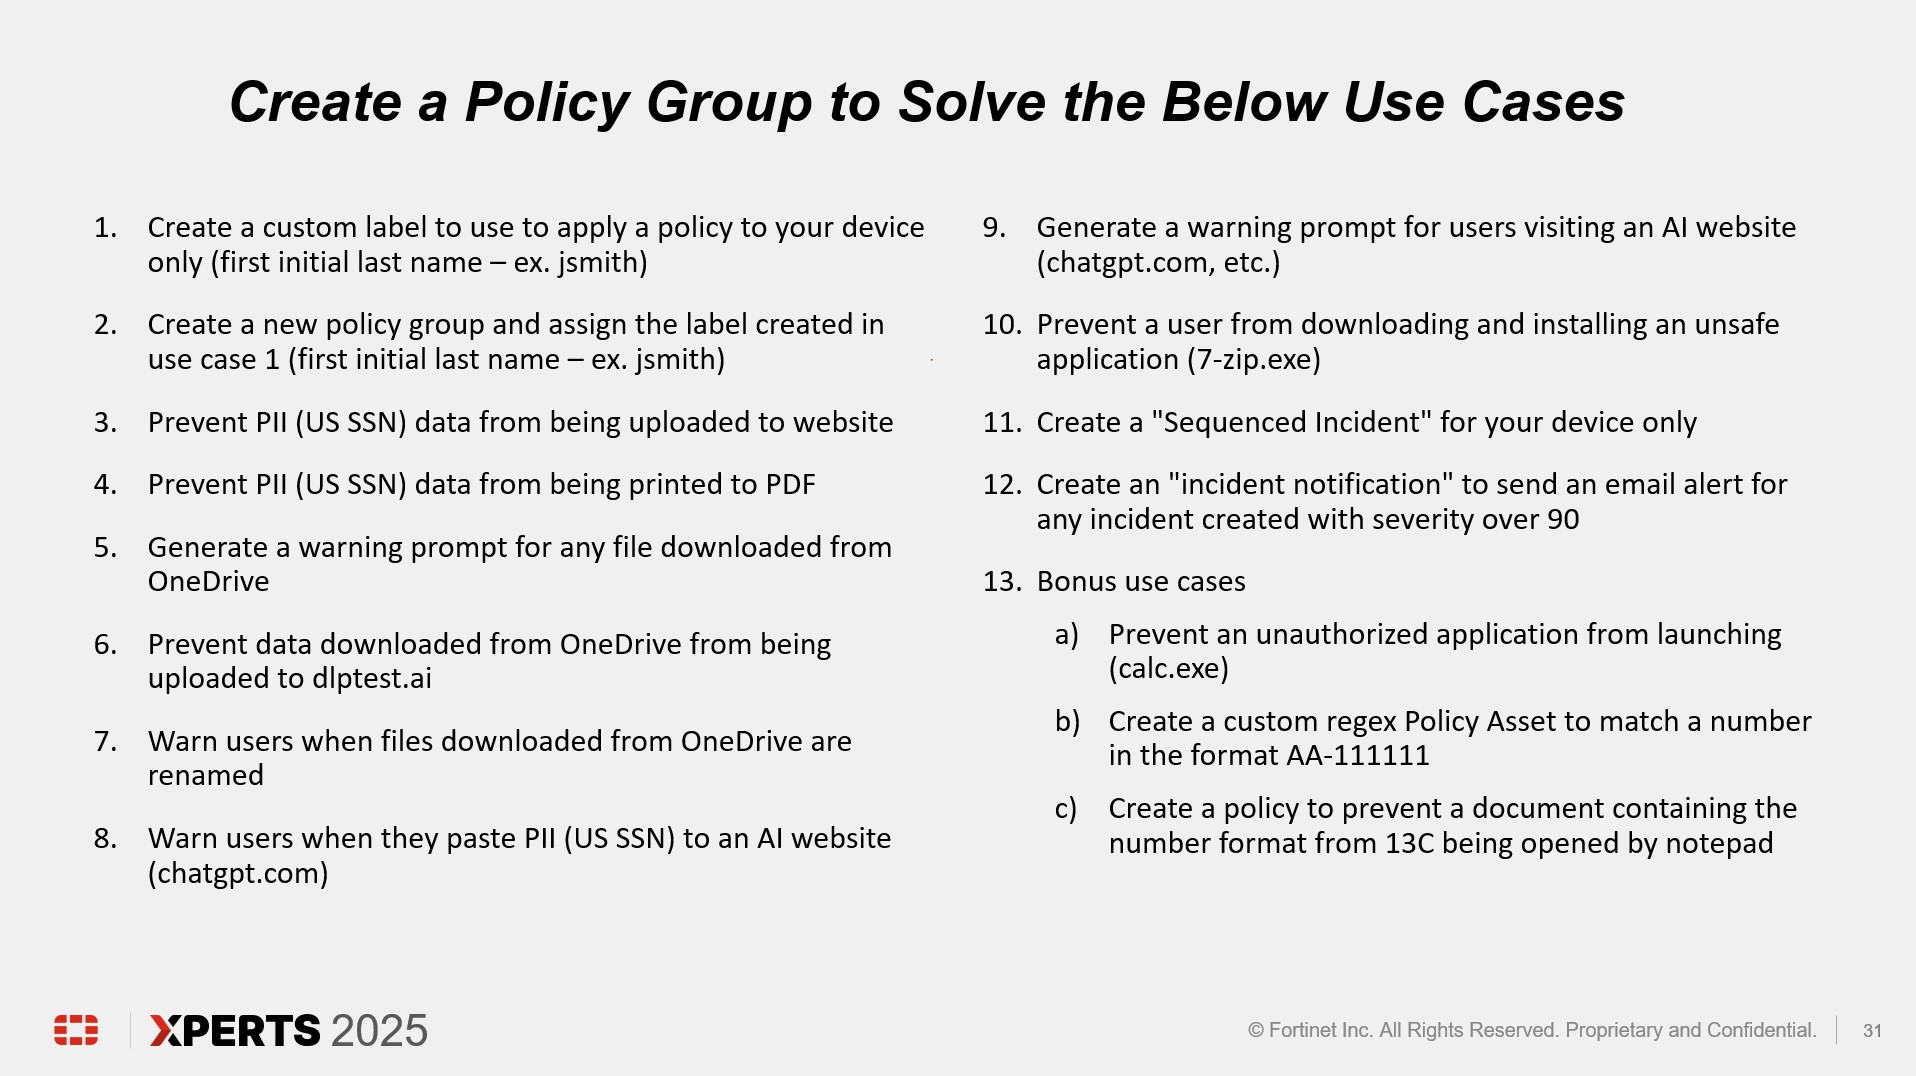
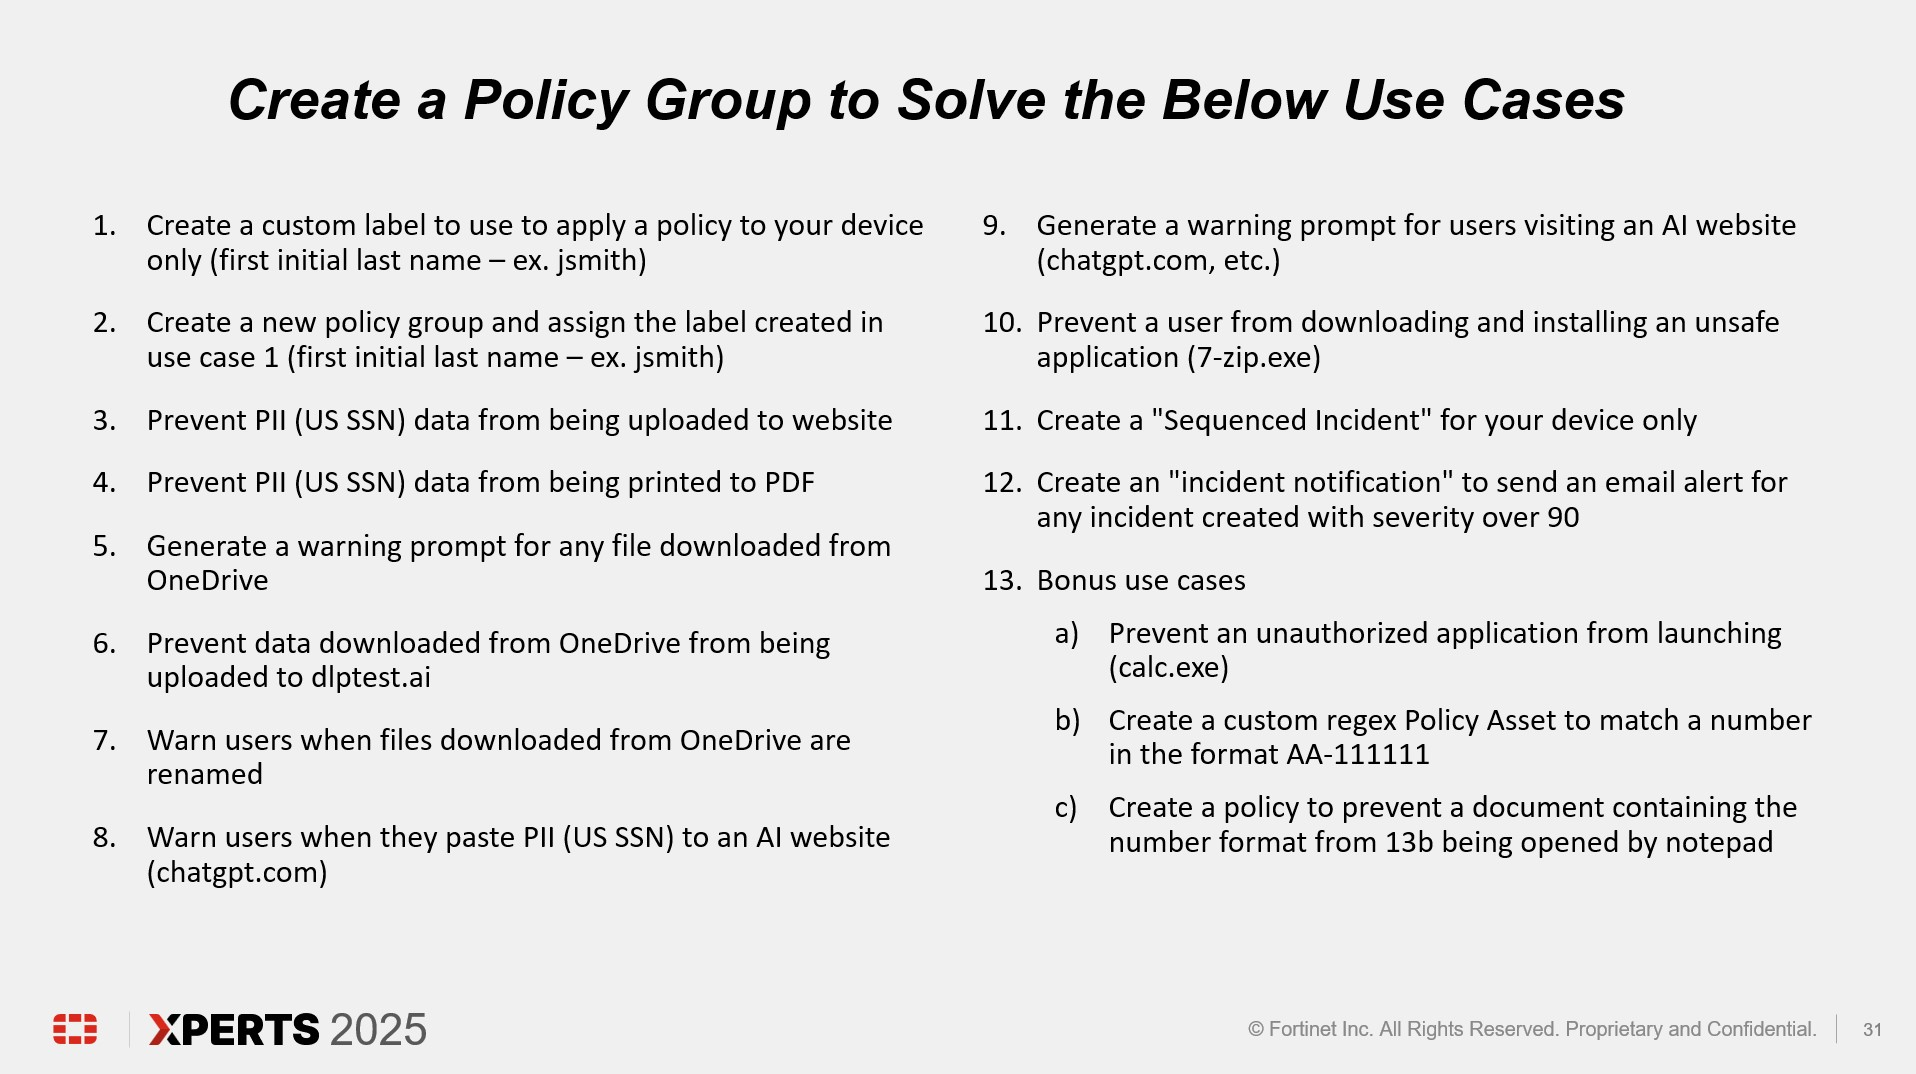
updated screenshots and quiz

diff --git a/content/_index.md b/content/_index.md
@@ -93,4 +93,4 @@ using templated PII/PHI/PCI policies</br>
    3) Including out-of-the-box investigation authorization workflows for analysts</br>
 
 
-{{< quizframe page="/gamebytag?tag=ch1" height="800" width="100%" >}}
+{{< quizframe page="/gamebytag?tag=post" height="800" width="100%" >}}

diff --git a/content/004PostLabQuiz/index.md b/content/004PostLabQuiz/index.md
@@ -1,0 +1,8 @@
+---
+title: "Post Lab Quiz"
+linkTitle: "Post Lab Quiz"
+chapter: false
+weight: 4
+---
+
+{{< quizframe page="/gamebytag?tag=post" height="800" width="100%" >}}
